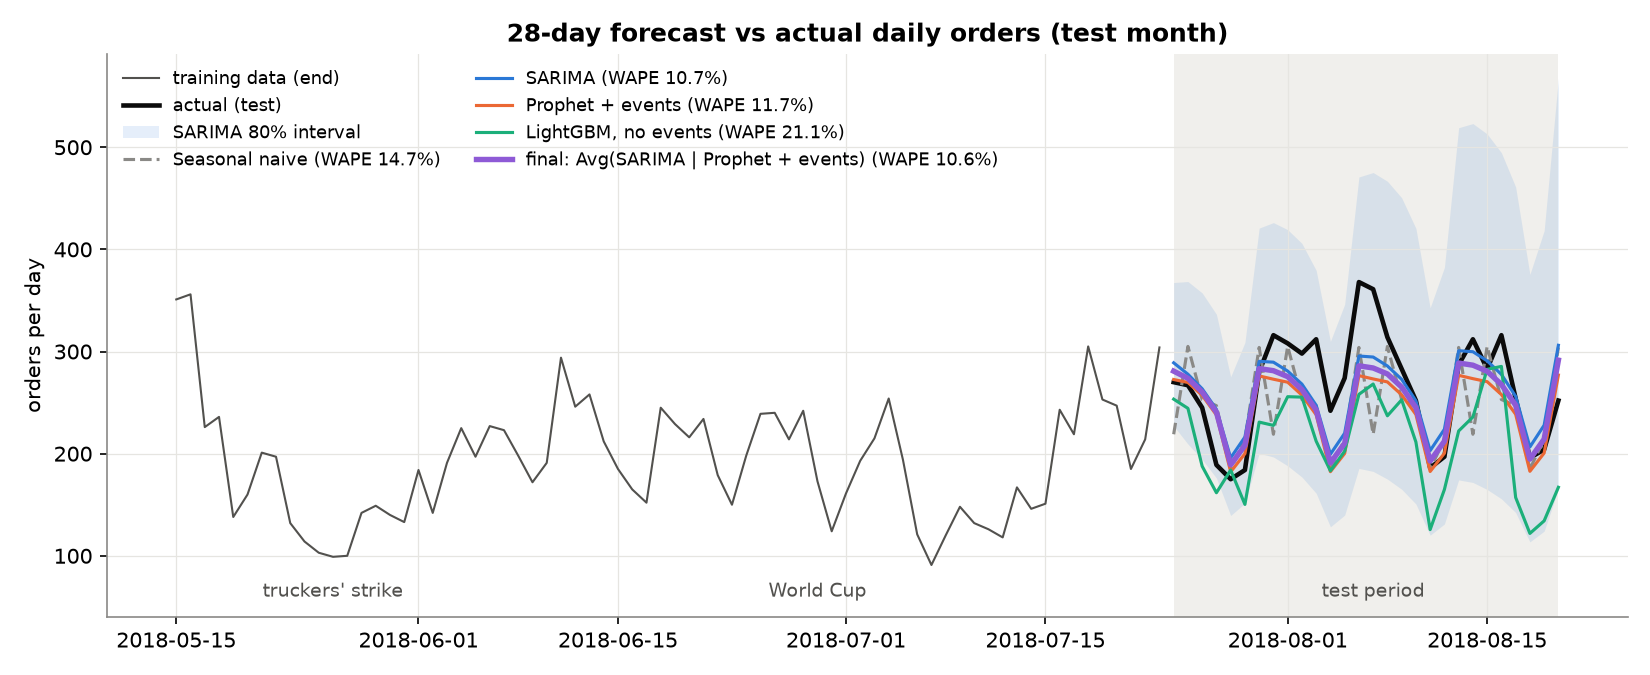
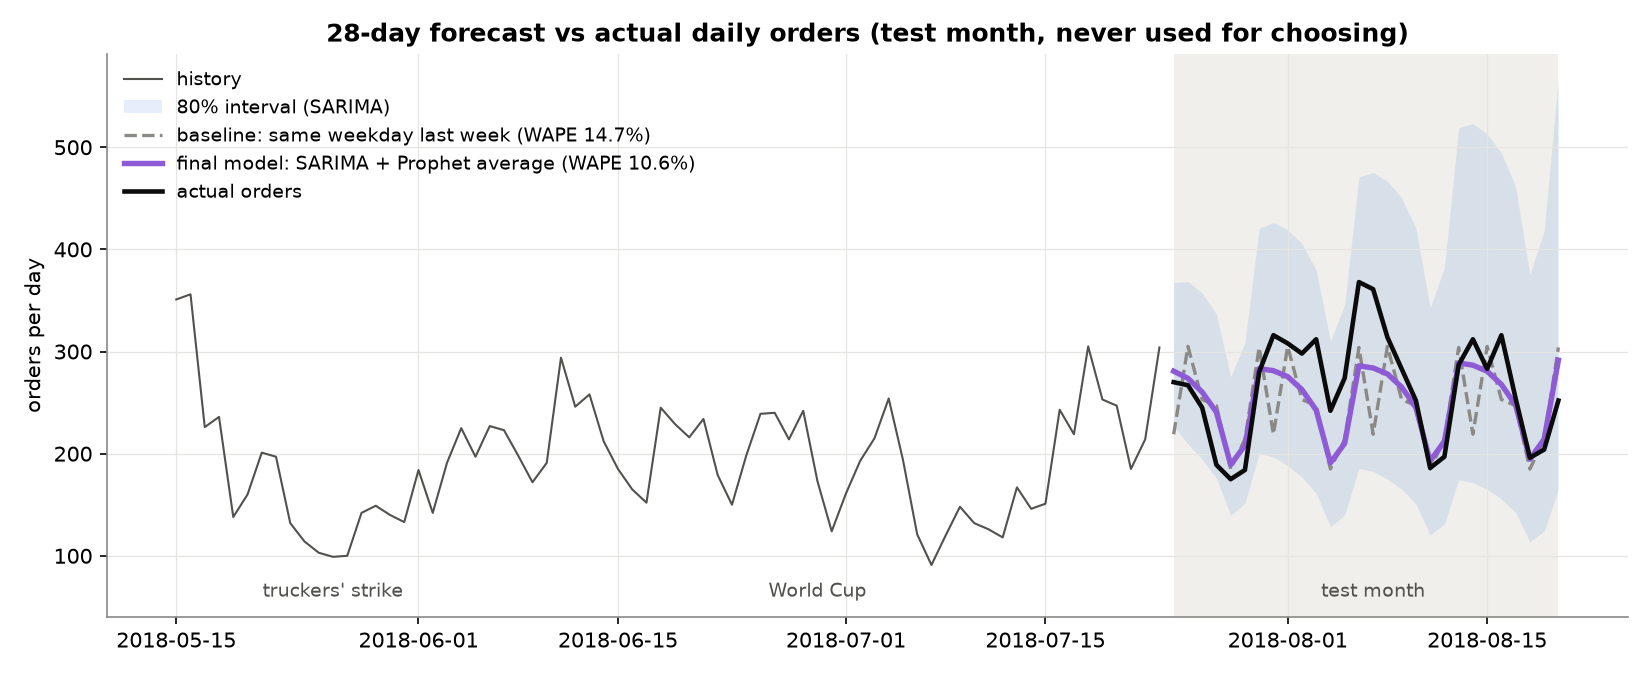
Simplify the main forecast chart to actual, baseline and final model

diff --git a/notebooks/forecasting.py b/notebooks/forecasting.py
@@ -541,23 +541,23 @@ results
 
 # %%
 final_fc = pd.Series(point(TEST_END, FINAL), index=test.index)
+naive_fc = pd.Series(point(TEST_END, "Seasonal naive"), index=test.index)
 sar = runs[TEST_END]["SARIMA"]
+# Three lines only (actual, baseline, final model); every other model is in the table above.
 fig, ax = plt.subplots(figsize=(11, 4.5))
-hist = y["2018-05-15":train.index.max()]
-ax.plot(hist, color=C["muted"], lw=1, label="training data (end)")
+ax.plot(y["2018-05-15":train.index.max()], color=C["muted"], lw=1, label="history")
 ax.axvspan(test.index.min(), test.index.max(), color="#f0efec", lw=0, zorder=0)
-ax.plot(test, color=C["actual"], lw=2.2, label="actual (test)")
-ax.fill_between(test.index, sar[1], sar[2], color=C["SARIMA"], alpha=0.12, lw=0, label="SARIMA 80% interval")
-lines = [("Seasonal naive", dict(color=C["naive"], ls="--")), ("SARIMA", dict(color=C["SARIMA"])),
-         (choice["Prophet"], dict(color=C["Prophet"])), (choice["LightGBM"], dict(color=C["LightGBM"]))]
-for name, style in lines:
-    ax.plot(test.index, point(TEST_END, name), lw=1.5, **style, label=f"{name} (WAPE {results.loc[name, 'WAPE, %']:.1f}%)")
-ax.plot(final_fc, color=C["Ensemble"], lw=2.6, label=f"final: {FINAL} (WAPE {results.loc[FINAL, 'WAPE, %']:.1f}%)")
-for text_, day in [("truckers' strike", "2018-05-26"), ("World Cup", "2018-06-29"), ("test period", "2018-08-07")]:
+ax.fill_between(test.index, sar[1], sar[2], color=C["SARIMA"], alpha=0.12, lw=0, label="80% interval (SARIMA)")
+ax.plot(naive_fc, color=C["naive"], ls="--", lw=1.6,
+        label=f"baseline: same weekday last week (WAPE {results.loc['Seasonal naive', 'WAPE, %']:.1f}%)")
+ax.plot(final_fc, color=C["Ensemble"], lw=2.6,
+        label=f"final model: SARIMA + Prophet average (WAPE {results.loc[FINAL, 'WAPE, %']:.1f}%)")
+ax.plot(test, color=C["actual"], lw=2.2, label="actual orders")
+for text_, day in [("truckers' strike", "2018-05-26"), ("World Cup", "2018-06-29"), ("test month", "2018-08-07")]:
     ax.annotate(text_, (pd.Timestamp(day), 60), fontsize=9, color=C["muted"], ha="center")
 ax.set_ylim(40, None)
-ax.set(title="28-day forecast vs actual daily orders (test month)", ylabel="orders per day")
-ax.legend(loc="upper left", ncol=2, fontsize=8.5)
+ax.set(title="28-day forecast vs actual daily orders (test month, never used for choosing)", ylabel="orders per day")
+ax.legend(loc="upper left", fontsize=9)
 fig.tight_layout(); fig.savefig(FIG_DIR / "07_forecast_vs_actual.png", dpi=150); plt.show()
 
 # %% [markdown]
